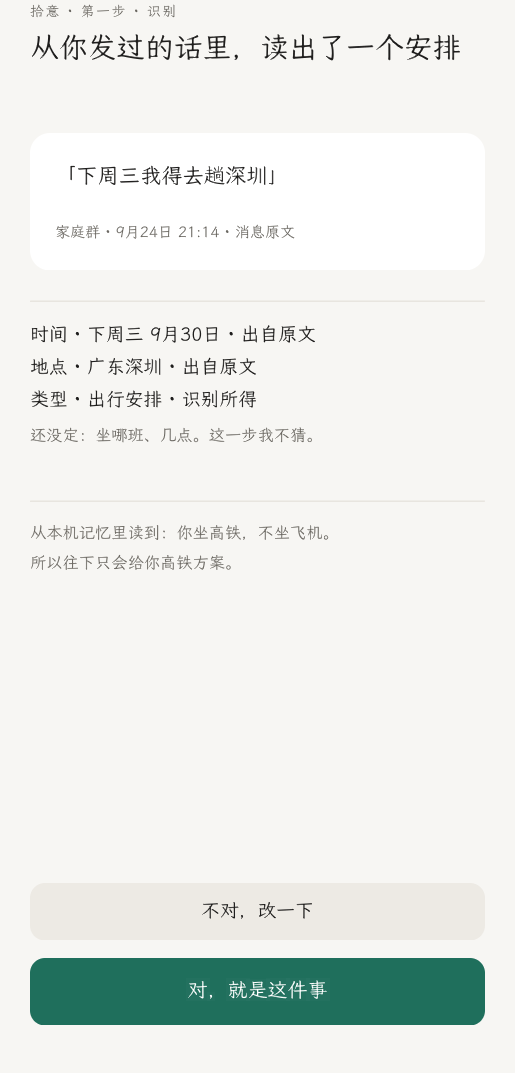
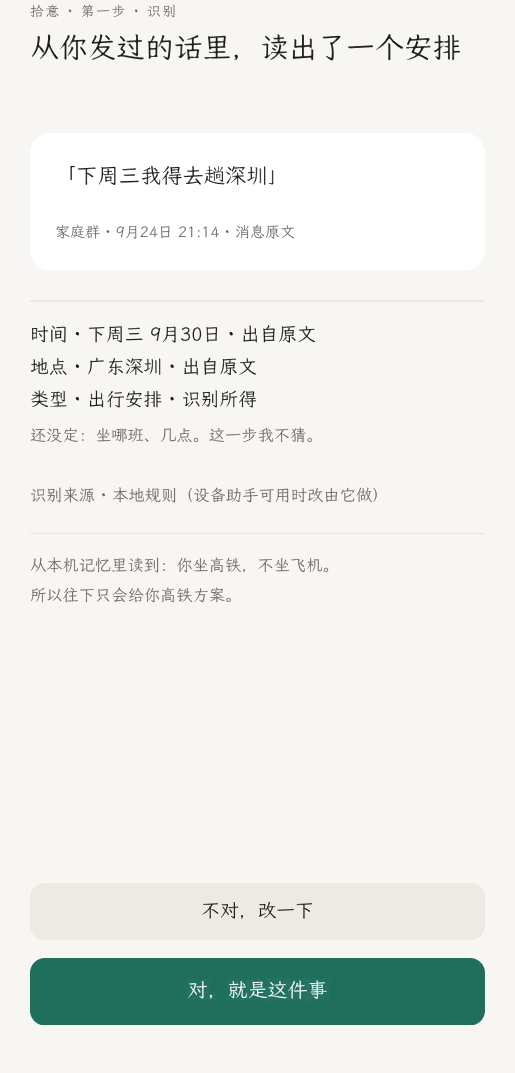
拾意 v0.2.2：识别来源标注 + 版本号全量对齐 + 重盖重录
- 卡片：READ 屏新增一行「识别来源 · 本地规则（设备助手可用时改由它做）」
  —— 把 AI 降级这件事印在卡上，如实标注谁做的这一步（no-facts 原则）
- bundle：page.card / page.data.json 同步该行，bundle_blake3 重盖为 94f66107
- 版本号全量对齐 0.2.1 → 0.2.2：
  README / SUBMISSION / docs/数据来源与限制 / build/sync_bundle.py 默认值
- 卡片 ledger：cards/shiyi-0{1..5}/page.card 与 bundle/page.card @0.2.1 → @0.2.2
- 门禁：hub check bundle --allow-unsigned → shiyi 0.2.2 PASSED（仅未签名常规告警）
- 审查包：hub scan → build/review.json 重生（版本与卡片源同步到 0.2.2）
- 证据：build/verify_flow.py 重跑，五屏点击链 + 记忆真读写三断言 + 两个失败态，14s 全绿

diff --git a/build/sync_bundle.py b/build/sync_bundle.py
@@ -17,7 +17,7 @@ rendered. Run render_cards.py first: a screen with no capture is a failure,
 not something to paper over.
 
 Usage:
-    python build/sync_bundle.py [--version 0.2.1]
+    python build/sync_bundle.py [--version 0.2.2]
 """
 
 import argparse
@@ -42,7 +42,7 @@ SCREENS = [
 
 def main():
     ap = argparse.ArgumentParser()
-    ap.add_argument("--version", default="0.2.1")
+    ap.add_argument("--version", default="0.2.2")
     args = ap.parse_args()
 
     # 1. The opening screen is the bundle's card.

diff --git a/SUBMISSION.md b/SUBMISSION.md
@@ -8,8 +8,8 @@
 |---|---|
 | app id | `shiyi` |
 | 名称 | 拾意 Pickup |
-| 版本 | `0.2.1`（`manifest.json`） |
-| 发布版本 | **tag `v0.2.1`** |
+| 版本 | `0.2.2`（`manifest.json`） |
+| 发布版本 | **tag `v0.2.2`** |
 | 固定提交号 | 见本仓库 `main` 分支 HEAD（提交时锁定） |
 | 许可证 | **Apache-2.0**（`LICENSE`） |
 | 公开仓库 | <https://github.com/sansanyixyz331/shiyi> |
@@ -28,7 +28,7 @@
 |---|---|---|---|
 | 1 | **简短需求** | `README.md` §1–§2（一句话 + 赛题对应，≤300 字） | ✅ |
 | 2 | **可运行最小原型及启动说明** | 原型 = `bundle/`（卡片包）+ `cards/`（五屏）+ `src/`（流程）；启动说明 = `README.md` §5 | ✅ |
-| 3 | **固定版本源码或包** | 源码 = 本仓库；包 = `bundle/`（`manifest.bundle_blake3` 内容寻址）；版本 = tag `v0.2.1` | ✅ |
+| 3 | **固定版本源码或包** | 源码 = 本仓库；包 = `bundle/`（`manifest.bundle_blake3` 内容寻址）；版本 = tag `v0.2.2` | ✅ |
 | 4 | **2–3 分钟演示** | `build/_video/shiyi-walkthrough.mp4`（**2 分 16 秒**，含五屏正流程 + 两个失败态） | ✅ |
 | 5 | **两张关键截图** | ① `bundle/screenshots/01-read.png`（识别：从消息读出时间/地点/类型 + 来源）② `bundle/screenshots/03-plan.png`（记忆命中"坐高铁不坐飞机"→ 只给高铁方案） | ✅ |
 | 6 | **数据来源与限制** | `docs/数据来源与限制.md`（逐字段来源 + **限制：车次为演示样例**） | ✅ |
@@ -41,7 +41,7 @@
 
 | # | 官方要求 | 我方对应 | 状态 |
 |---|---|---|---|
-| 1 | 公开源码仓库、**固定提交号或发布版本**、**Apache-2.0** | 仓库公开；tag `v0.2.1`；`LICENSE` = Apache-2.0 | ✅ |
+| 1 | 公开源码仓库、**固定提交号或发布版本**、**Apache-2.0** | 仓库公开；tag `v0.2.2`；`LICENSE` = Apache-2.0 | ✅ |
 | 2 | 应用**目标、适用场景、图标、运行截图、作者与支持方式** | 目标/场景 = `README.md` §1–2；图标 = `bundle/assets/icon.svg`；截图 = `bundle/screenshots/`×5；作者/支持 = `listing.json` publisher + 本文件顶部 | ✅ |
 | 3 | **宿主版本、支持平台、依赖与启动说明**（让评审复现同一版本） | 见下方 §C「复现」——含宿主修订、平台、依赖、逐步命令 | ✅ |
 | 4 | **数据来源、申请权限、隐私处理，以及用户授权、拒绝和失败时的行为** | `docs/数据来源与限制.md`（来源+限制+权限=零）+ `PRIVACY.md`（隐私）+ 该文件的「授权 / 拒绝 / 失败」三表 + §5.4 长期记忆的存储位置与写入行为 | ✅ |
@@ -58,7 +58,7 @@
 | `kit/` | `bundle/kit/native/light/kit.json`（16 组件 / 12 token） | ✅ |
 | 图标 `assets/` | `bundle/assets/icon.svg` | ✅ |
 | 截图 `screenshots/`（≥1 张 PNG） | `bundle/screenshots/01..05-*.png`（5 张） | ✅ |
-| **预检结果** | `build/review.json`（`hub scan` 产物，7 问）+ `hub check` **PASSED**（0.2.1 改动后已重跑） | ✅ |
+| **预检结果** | `build/review.json`（`hub scan` 产物，7 问）+ `hub check` **PASSED**（0.2.2 改动后已重跑） | ✅ |
 | **实际运行证据** | `build/_evidence/`（`flow_run.json`〔含 `memory` 记忆取证段〕+ 5 张宿主内截图 + 宿主日志） | ✅ |
 
 ## D. 复现（评审照这个走，能拿到同一版本）

diff --git a/README.md b/README.md
@@ -299,7 +299,7 @@ layout、style；多传一个 `on_tap` 会直接报 `xxx has no prop on_tap`。
 | 作者 / 发布者 | **sansanyixyz331**（队伍 `三三Claw`） |
 | 支持 | <https://github.com/sansanyixyz331/shiyi/issues> |
 | 仓库 | <https://github.com/sansanyixyz331/shiyi> |
-| 版本 | `0.2.1`（tag `v0.2.1`） |
+| 版本 | `0.2.2`（tag `v0.2.2`） |
 | 许可 | Apache-2.0 |
 
 ## License

diff --git a/docs/数据来源与限制.md b/docs/数据来源与限制.md
@@ -25,7 +25,7 @@
 **零权限。** `bundle/manifest.json` 的 `capabilities` 为空数组 `[]`：
 
 ```json
-{ "capabilities": [], "id": "shiyi", "name": "拾意 Pickup", "version": "0.2.1" }
+{ "capabilities": [], "id": "shiyi", "name": "拾意 Pickup", "version": "0.2.2" }
 ```
 
 - **不申请网络**：解析全在本地，无上报端点。
